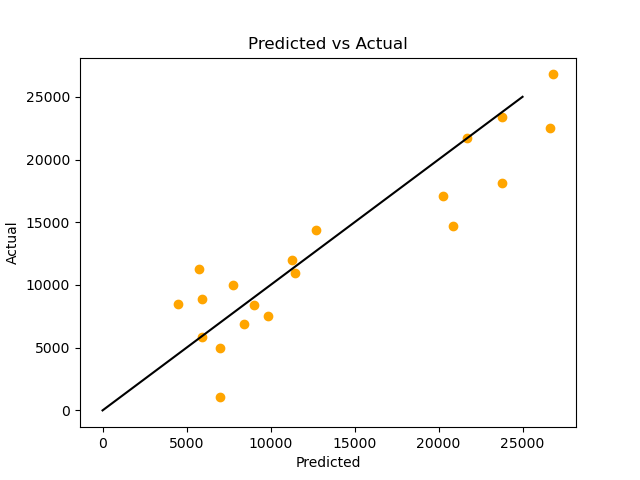
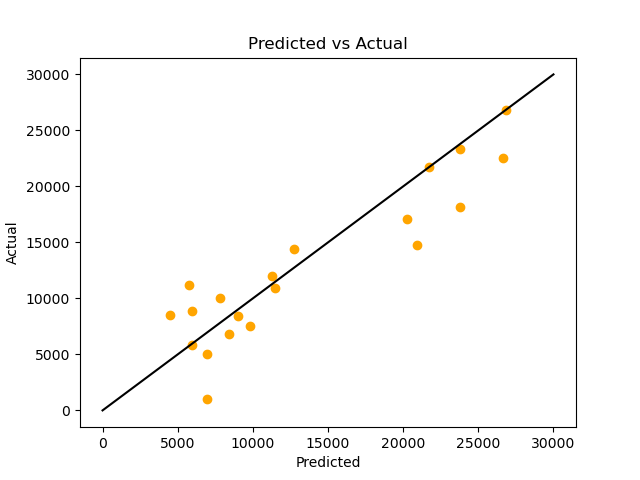
Warmup patch

diff --git a/assignments_02/warmup_02.py b/assignments_02/warmup_02.py
@@ -124,11 +124,13 @@ The smoker coefficient represents the predicted cost of healthcare for all 100 p
 
 # Linear Regression 05
 plt.scatter(y_pred2,y_test2,color="orange",cmap="coolwarm")
-plt.plot( [0,25000],[0,25000], color="black")
+plt.plot( [0,30000],[0,30000], color="black")
 plt.xlabel("Predicted")
 plt.ylabel("Actual")
 plt.title("Predicted vs Actual")
 plt.savefig("outputs/predicted_vs_actual.png")
 plt.show()
 
-#Above the line is positive correlation and below the line is negative correlation.
+# Points above the diagonal line have actual grades higher than predicted,
+# while points below the line have actual grades lower than predicted.
+# Points closer to the diagonal represent more accurate predictions.
